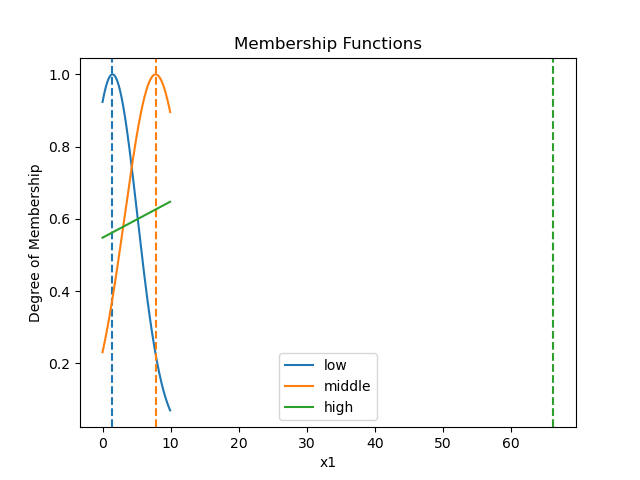
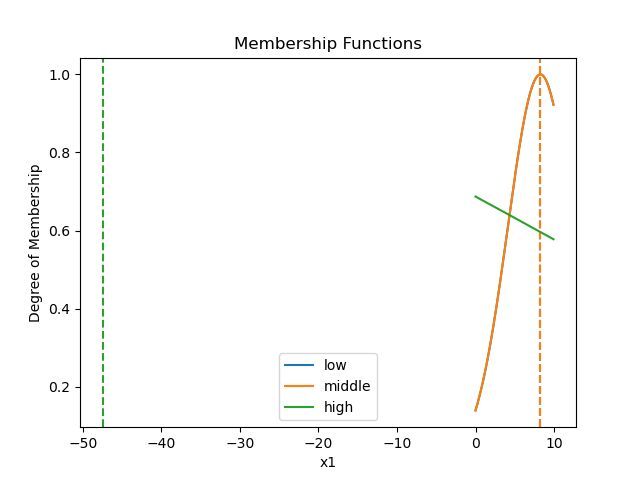
rewrote antecedent layer + trainer to match combination-conventions
instead of LL, ML, HL, now -> LL, LM, LH !

diff --git a/neurofuzzy_pkg/utils/MyArcTrainer.py b/neurofuzzy_pkg/utils/MyArcTrainer.py
@@ -235,7 +235,7 @@ class MyArcTrainer(Trainer):
         # reshape error to match each mu 
         error = np.reshape(error, mus[0].shape)
         delta = [mu * error for mu in mus]
-        delta.reverse() # the other mu for each 
+        #delta.reverse() # the other mu for each 
         
         centers_prime = self.calc_mf_derv_center()
         widths_prime = self.calc_mf_derv_widths()
@@ -254,12 +254,21 @@ class MyArcTrainer(Trainer):
         """
         
         # imitate the whole meshgrid process like in antecedent layer
-        x = np.array_split(para_prime, range(3, len(para_prime), 3))
-        para_gridded = np.meshgrid(x[0], x[1]) 
-        delta = [d * p for d,p in zip(delta, para_gridded)]
-        delta_x1 = np.sum(delta[0], axis=0)
-        delta_x2 = np.sum(delta[1], axis=1)
+       # x = np.array_split(para_prime, range(3, len(para_prime), 3))
+        #para_gridded = np.meshgrid(x[0], x[1]) 
+        #x.reverse()  # so it fits with convention 
+        #para_gridded = np.array(np.meshgrid(*x)) # the '*' unpacks x and passes to messgrid
+       
+        print("delta", delta)
+        delta_x1 = np.sum(delta[0], axis=1)
+        delta_x2 = np.sum(delta[1], axis=0)
         delta = np.concatenate((delta_x1, delta_x2))
+
+        delta *= para_prime
+
+
+
+       # delta = [d * p for d,p in zip(delta, para_gridded)]
 
         # self.fuzzi ...
         param_to_tune = getattr(layer, param)

diff --git a/neurofuzzy_pkg/fuzzyLayers/RuleAntecedentLayer.py b/neurofuzzy_pkg/fuzzyLayers/RuleAntecedentLayer.py
@@ -84,12 +84,20 @@ class RuleAntecedentLayer():
         k = self.n_participants 
         self.n_rules = int(coefficient(n, k) - n)
 
-        x = np.array_split(x, range(self.n_mfs, len(x), self.n_mfs))
-        x =  np.meshgrid(x[0], x[1]) # hc
-        self.inputs = x #  need meshgrid for training
-        x = (x[0] * x[1]).ravel() # hc
+        # x = np.array_split(x, range(self.n_mfs, len(x), self.n_mfs))
+        # x =  np.meshgrid(x[0], x[1]) # hc
+        # self.inputs = x #  need meshgrid for training
+        # x = (x[0] * x[1]).ravel() # hc
 
-        assert self.n_rules == x.size, f'the number of rules generated: {x.size} has to equal: {self.n_rules} -> coefficient(n_cols * n_rows, k) - n_cols * n_rows' 
+       
+        x = np.array_split(x, range(3, len(x), 3))
+        x.reverse()  # so it fits with convention 
+        x = np.array(np.meshgrid(*x)) # the '*' unpacks x and passes to messgrid
+        self.inputs = x #  need meshgrid for training
+        x = (x[1] * x[0]).ravel()
+  
+
+        assert self.n_rules == x.size, f'the number of rules generated: {x.size} has to equal: {self.n_rules} -> coefficient(inputs * n_mfs, participants) - inputs * n_mfs' 
 
         return x
 
